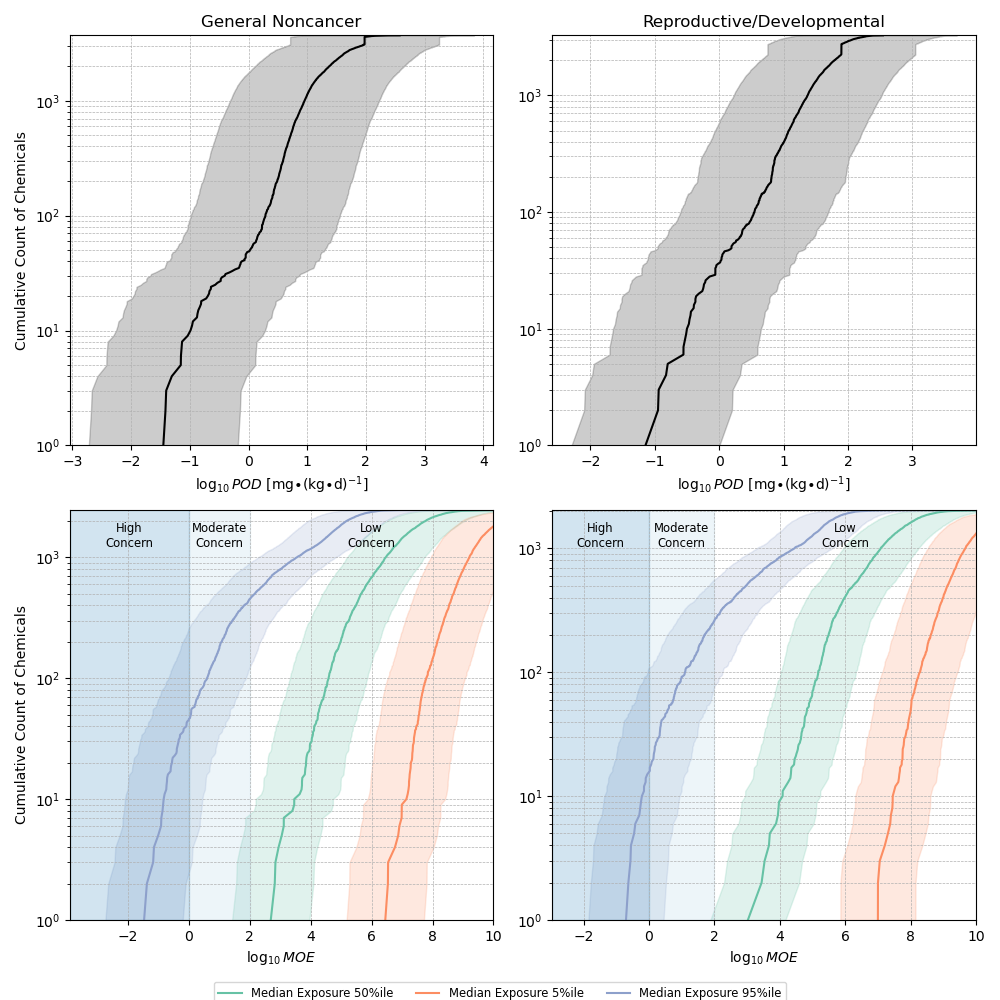
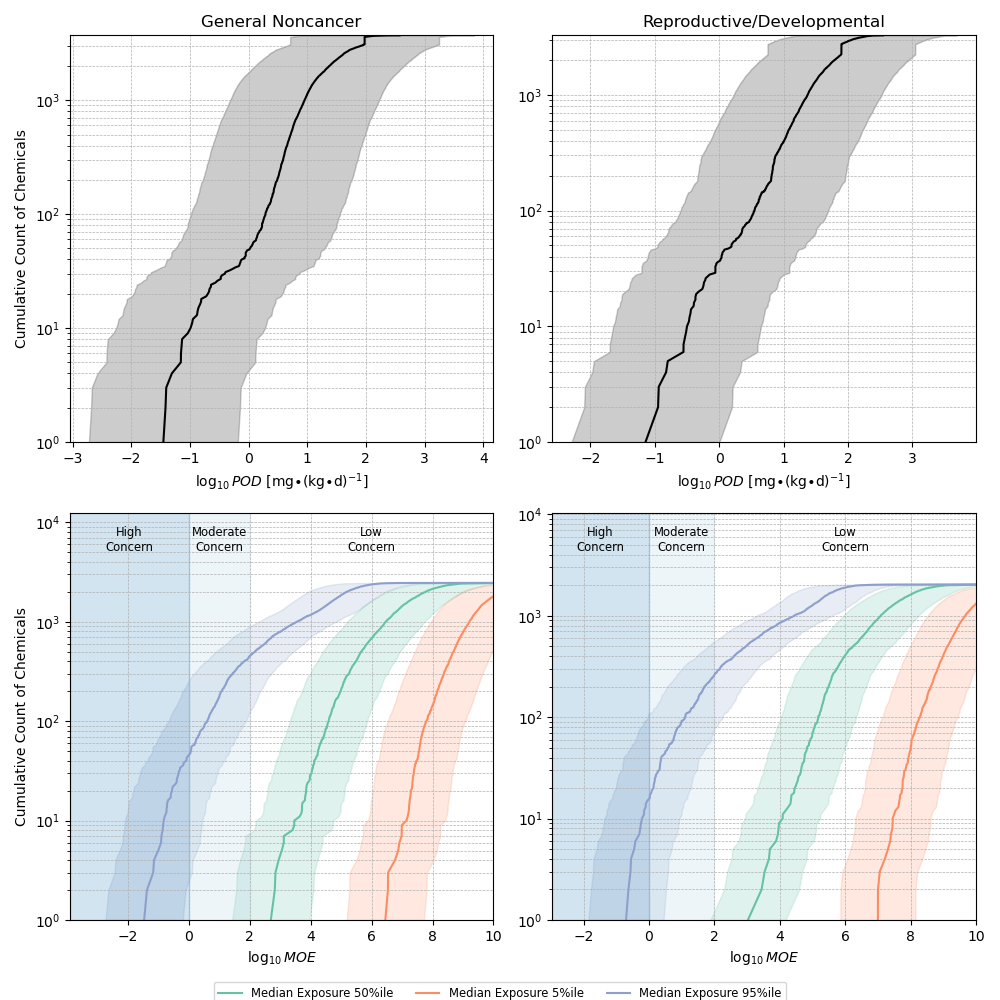
Refactor MOE plot: Accommodate category labels with ymax

diff --git a/plotting/moe.py b/plotting/moe.py
@@ -430,6 +430,11 @@ def annotate_vertical_spans(ax, categories, category_kwargs, y_pos_axes=0.97):
     -------
     None
     '''
+    # Manually increase the axis limit to accomodate the labels. 
+    # TODO: Consider more sophisticated options.
+    ymin, ymax = ax.get_ylim()
+    ax.set_ylim(ymin, 5*ymax)
+
     for category, (lower, upper) in categories.items():
         if lower == -np.inf:
             # Extend the lower limit to the xmin of the Axes
